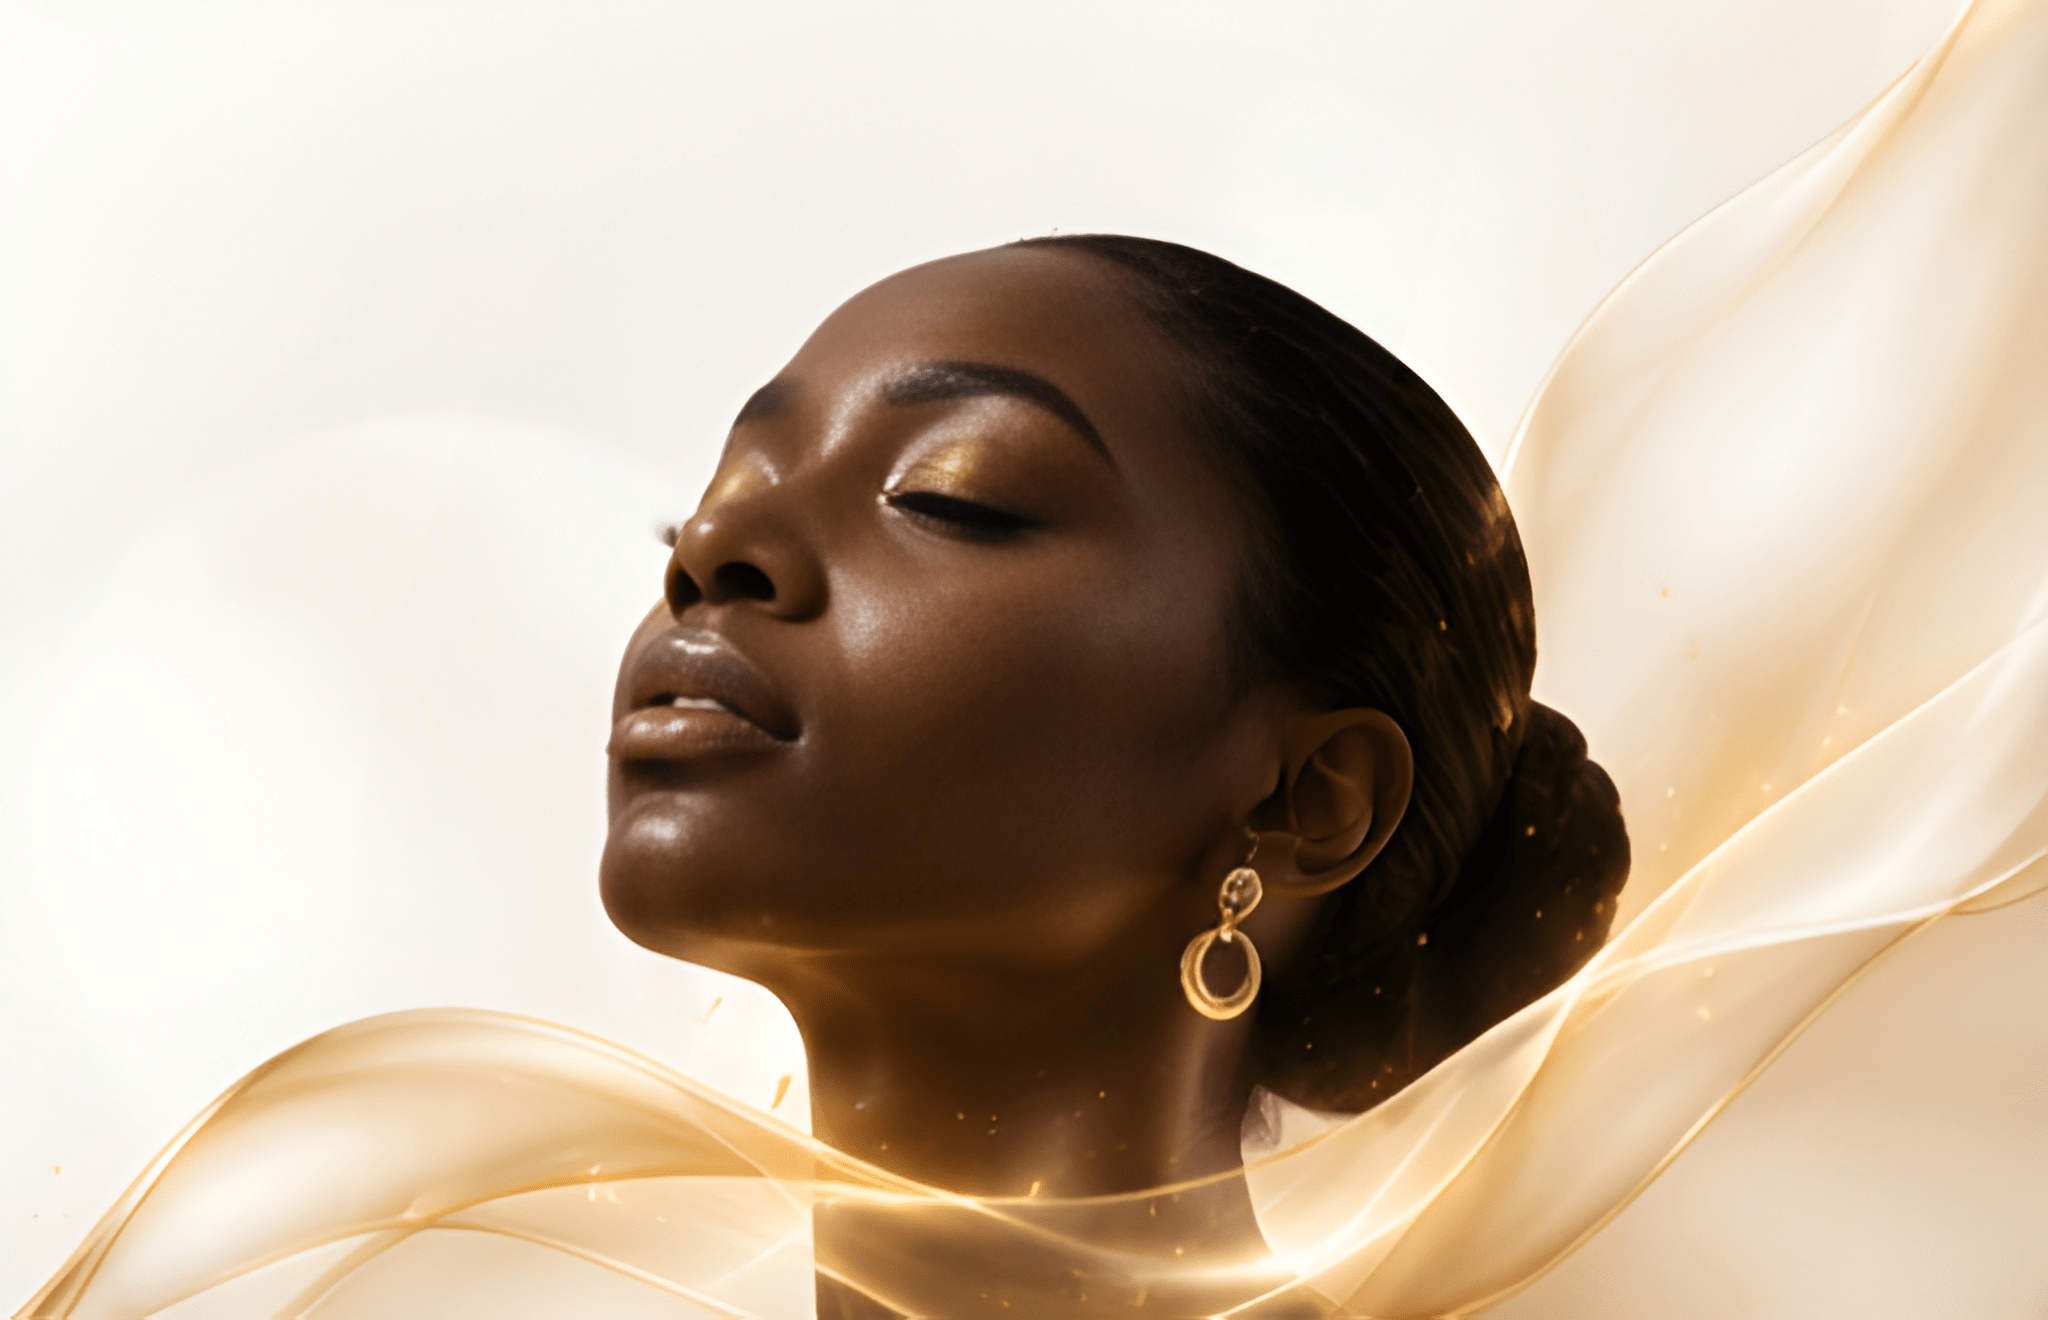
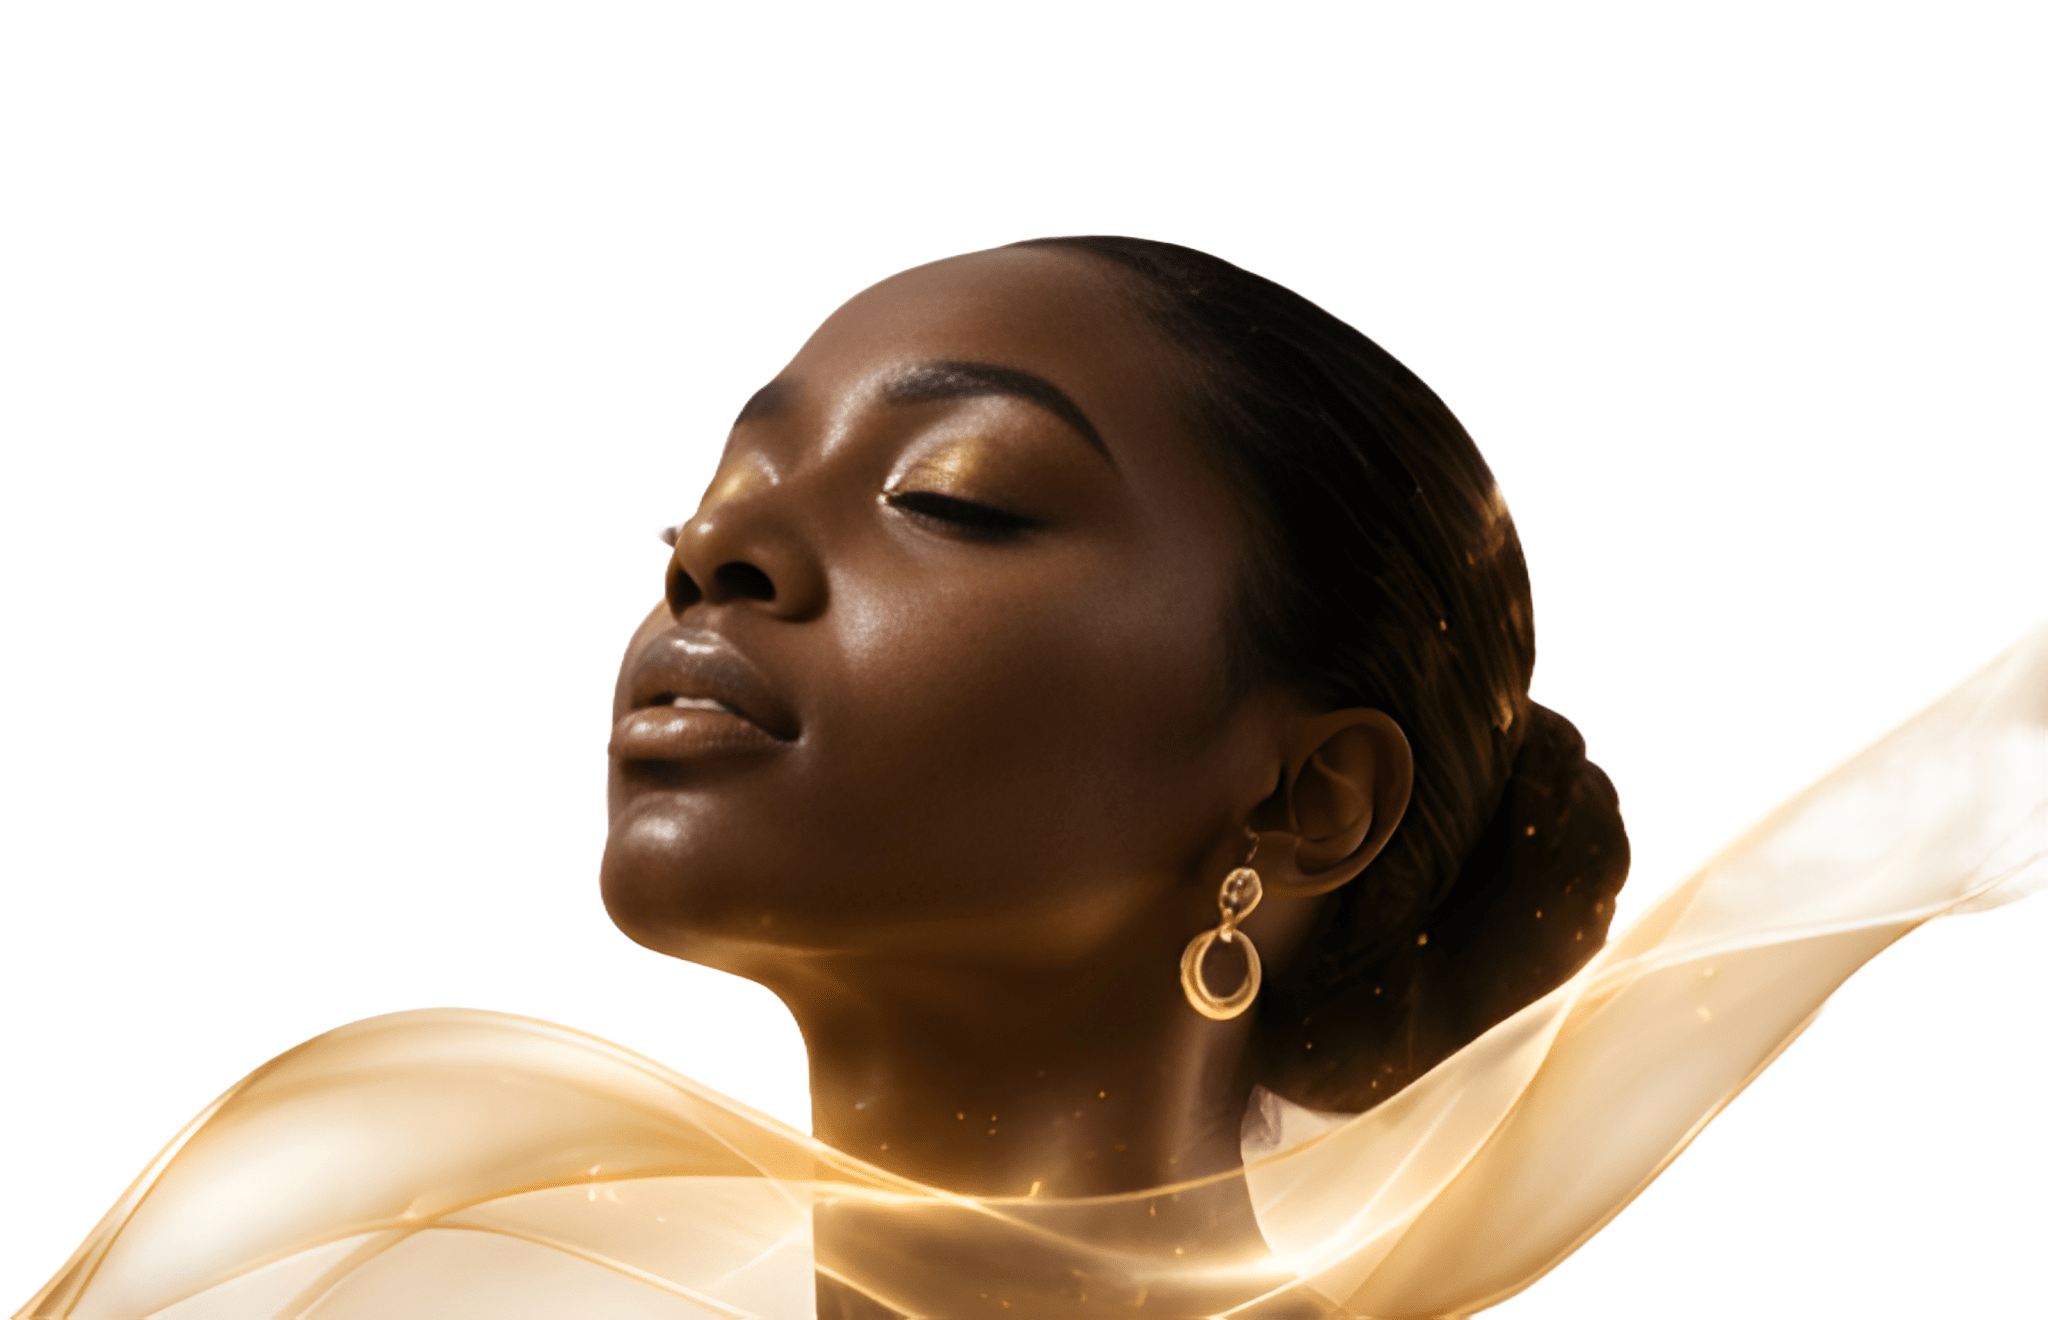
feat(prestation): add BeautyUnivers section and refine hero layout
- Import and render BeautyUnivers component on the prestation page.
- Refine PrestationHero: adjust height, image positioning, spacing, and typography to align with design specifications (portrait cut-off at neck level) and homogenize with Home Hero.

diff --git a/components/BeautyUnivers.tsx b/components/BeautyUnivers.tsx
@@ -1,0 +1,152 @@
+"use client";
+
+import { motion } from "framer-motion";
+import Image from "next/image";
+import Link from "next/link";
+import { Reveal } from "@/components/ui/Reveal";
+import { SectionHeading } from "@/components/ui/SectionHeading";
+
+const ease: [number, number, number, number] = [0.22, 1, 0.36, 1];
+
+const categories = [
+	{
+		title: "Soins\n du Visage",
+		subtitle: "4 soins experts",
+		image: "/assets/images/soin-visage.jpg",
+		href: "#soins-visage",
+		icon: (
+			<svg viewBox="0 0 24 24" fill="none" stroke="currentColor" strokeWidth={1.5} className="h-5 w-5">
+				<path strokeLinecap="round" strokeLinejoin="round" d="M15.182 15.182a4.5 4.5 0 01-6.364 0M21 12a9 9 0 11-18 0 9 9 0 0118 0zM9.75 9.75c0 .414-.168.75-.375.75S9 10.164 9 9.75 9.168 9 9.375 9s.375.336.375.75zm-.375 0h.008v.015h-.008V9.75zm5.625 0c0 .414-.168.75-.375.75s-.375-.336-.375-.75.168-.75.375-.75.375.336.375.75zm-.375 0h.008v.015h-.008V9.75z" />
+			</svg>
+		),
+	},
+	{
+		title: "Microneedling\n Expert",
+		subtitle: "1 protocole avancé",
+		image: "/assets/images/microneeding.jpg",
+		href: "#microneedling",
+		icon: (
+			<svg viewBox="0 0 24 24" fill="none" stroke="currentColor" strokeWidth={1.5} className="h-5 w-5">
+				<path strokeLinecap="round" strokeLinejoin="round" d="M9.75 3.104v5.714a2.25 2.25 0 01-.659 1.591L5 14.5M9.75 3.104c-.251.023-.501.05-.75.082m.75-.082a24.301 24.301 0 014.5 0m0 0v5.714c0 .597.237 1.17.659 1.591L19.8 15.3M14.25 3.104c.251.023.501.05.75.082M19.8 15.3l-1.57.393A9.065 9.065 0 0112 15a9.065 9.065 0 00-6.23.693L5 14.5m14.8.8l1.402 1.402c1.232 1.232.65 3.318-1.067 3.611A48.309 48.309 0 0112 21c-2.773 0-5.491-.235-8.135-.687-1.718-.293-2.3-2.379-1.067-3.61L5 14.5" />
+			</svg>
+		),
+	},
+	{
+		title: "Beauté\n du Regard",
+		subtitle: "5 prestations",
+		image: "/assets/images/beaute-au-regard.jpg",
+		href: "#beaute-regard",
+		icon: (
+			<svg viewBox="0 0 24 24" fill="none" stroke="currentColor" strokeWidth={1.5} className="h-5 w-5">
+				<path strokeLinecap="round" strokeLinejoin="round" d="M2.036 12.322a1.012 1.012 0 010-.639C3.423 7.51 7.36 4.5 12 4.5c4.638 0 8.573 3.007 9.963 7.178.07.207.07.431 0 .639C20.577 16.49 16.64 19.5 12 19.5c-4.638 0-8.573-3.007-9.963-7.178z" />
+				<path strokeLinecap="round" strokeLinejoin="round" d="M15 12a3 3 0 11-6 0 3 3 0 016 0z" />
+			</svg>
+		),
+	},
+	{
+		title: "Massages\n & Bien-Être",
+		subtitle: "3 rituels",
+		image: "/assets/images/massage.png",
+		href: "#massages",
+		icon: (
+			<svg viewBox="0 0 24 24" fill="none" stroke="currentColor" strokeWidth={1.5} className="h-5 w-5">
+				<path strokeLinecap="round" strokeLinejoin="round" d="M21 8.25c0-2.485-2.099-4.5-4.688-4.5-1.935 0-3.597 1.126-4.312 2.733-.715-1.607-2.377-2.733-4.313-2.733C5.1 3.75 3 5.765 3 8.25c0 7.22 9 12 9 12s9-4.78 9-12z" />
+			</svg>
+		),
+	},
+	{
+		title: "Épilation\n Experte",
+		subtitle: "2 techniques",
+		image: "/assets/images/soin-expert.jpg",
+		href: "#epilation",
+		icon: (
+			<svg viewBox="0 0 24 24" fill="none" stroke="currentColor" strokeWidth={1.5} className="h-5 w-5">
+				<path strokeLinecap="round" strokeLinejoin="round" d="M9.813 15.904L9 18.75l-.813-2.846a4.5 4.5 0 00-3.09-3.09L2.25 12l2.846-.813a4.5 4.5 0 003.09-3.09L9 5.25l.813 2.846a4.5 4.5 0 003.09 3.09L15.75 12l-2.846.813a4.5 4.5 0 00-3.09 3.09zM18.259 8.715L18 9.75l-.259-1.035a3.375 3.375 0 00-2.455-2.456L14.25 6l1.036-.259a3.375 3.375 0 002.455-2.456L18 2.25l.259 1.035a3.375 3.375 0 002.455 2.456L21.75 6l-1.036.259a3.375 3.375 0 00-2.455 2.456zM16.894 20.567L16.5 21.75l-.394-1.183a2.25 2.25 0 00-1.423-1.423L13.5 18.75l1.183-.394a2.25 2.25 0 001.423-1.423l.394-1.183.394 1.183a2.25 2.25 0 001.423 1.423l1.183.394-1.183.394a2.25 2.25 0 00-1.423 1.423z" />
+			</svg>
+		),
+	},
+	{
+		title: "Formations\n Professionnelles",
+		subtitle: "3 programmes",
+		image: "/assets/images/formation-soin.jpg",
+		href: "#formations",
+		icon: (
+			<svg viewBox="0 0 24 24" fill="none" stroke="currentColor" strokeWidth={1.5} className="h-5 w-5">
+				<path strokeLinecap="round" strokeLinejoin="round" d="M4.26 10.147a60.436 60.436 0 00-.491 6.347A48.627 48.627 0 0112 20.904a48.627 48.627 0 018.232-4.41 60.46 60.46 0 00-.491-6.347m-15.482 0a50.57 50.57 0 00-2.658-.813A59.905 59.905 0 0112 3.493a59.902 59.902 0 0110.399 5.84c-.896.248-1.783.52-2.658.814m-15.482 0A50.697 50.697 0 0112 13.489a50.702 50.702 0 017.74-3.342M6.75 15a.75.75 0 100-1.5.75.75 0 000 1.5zm0 0v-3.675A55.378 55.378 0 0112 8.443m-7.007 11.55A5.981 5.981 0 006.75 15.75v-1.5" />
+			</svg>
+		),
+	},
+];
+
+export function BeautyUnivers() {
+	return (
+		<section className="relative overflow-hidden bg-cream py-20 md:py-28">
+			{/* Soie dorée décorative */}
+			<div className="pointer-events-none absolute -left-20 top-0 h-full w-[40%] opacity-30">
+				<img
+					src="/assets/images/forme-left.png"
+					alt=""
+					aria-hidden
+					className="h-full w-full object-cover"
+				/>
+			</div>
+
+			<div className="container-luxe relative z-10">
+				{/* Heading */}
+				<SectionHeading
+					title="Découvrez nos"
+					highlight="univers de beauté"
+					description="Cliquez sur une catégorie pour explorer nos soins en détail."
+					align="center"
+				/>
+
+				{/* Grille de cartes */}
+				<div className="mt-14 grid grid-cols-1 gap-4 sm:grid-cols-2 lg:grid-cols-3 md:mt-16">
+					{categories.map((cat, i) => (
+						<Reveal key={cat.href} delay={i * 0.08}>
+							<Link href={cat.href} className="group relative block overflow-hidden rounded-2xl shadow-card transition-shadow hover:shadow-lift">
+								{/* Image */}
+								<div className="relative aspect-[4/5] overflow-hidden">
+									<Image
+										src={cat.image}
+										alt={cat.title.replace("\n", " ")}
+										fill
+										sizes="(min-width: 1024px) 33vw, (min-width: 640px) 50vw, 100vw"
+										className="object-cover transition-transform duration-700 ease-[cubic-bezier(0.22,1,0.36,1)] group-hover:scale-105"
+									/>
+									{/* Gradient overlay */}
+									<div className="absolute inset-0 bg-gradient-to-t from-black/70 via-black/20 to-transparent" />
+								</div>
+
+								{/* Contenu */}
+								<div className="absolute inset-0 flex flex-col justify-end p-5 sm:p-6">
+									{/* Icône dorée (haut gauche) */}
+									<div className="absolute top-4 left-4 flex h-10 w-10 items-center justify-center rounded-full bg-gold/90 text-royal shadow-md backdrop-blur-sm sm:h-11 sm:w-11">
+										{cat.icon}
+									</div>
+
+									{/* Titre */}
+									<h3 className="whitespace-pre-line font-display text-lg font-bold uppercase leading-tight tracking-wide text-white sm:text-xl">
+										{cat.title}
+									</h3>
+
+									{/* Sous-titre + flèche */}
+									<div className="mt-1.5 flex items-center justify-between">
+										<span className="text-xs text-white/80 sm:text-sm">
+											{cat.subtitle}
+										</span>
+										<span className="flex h-8 w-8 items-center justify-center rounded-full border border-gold/50 text-gold transition-all duration-300 group-hover:bg-gold group-hover:text-royal group-hover:shadow-gold sm:h-9 sm:w-9">
+											<svg className="h-4 w-4" fill="none" viewBox="0 0 24 24" stroke="currentColor" strokeWidth={2}>
+												<path strokeLinecap="round" strokeLinejoin="round" d="M13.5 4.5L21 12m0 0l-7.5 7.5M21 12H3" />
+											</svg>
+										</span>
+									</div>
+								</div>
+							</Link>
+						</Reveal>
+					))}
+				</div>
+			</div>
+		</section>
+	);
+}

diff --git a/components/PrestationHero.tsx b/components/PrestationHero.tsx
@@ -10,13 +10,13 @@ import { waLink } from "@/lib/site";
 import { cn } from "@/lib/utils";
 
 /**
- * PrestationHero — High-fidelity hero for the services page.
- * Faithfully reproduces the attached design using strategic assets:
- * hero-right-image.png, left-image-effect.png, and lotus-expertise.png.
+ * PrestationHero — Refined hero for the services page.
+ * Height is adjusted to align perfectly with the portrait cut-off at the neck level.
+ * Homogenized with Home Hero spacing and typography.
  */
 export function PrestationHero() {
 	return (
-		<section className="relative min-h-[600px] w-full overflow-hidden bg-ivory py-16 lg:h-[85vh] lg:min-h-[700px] lg:py-0">
+		<section className="relative min-h-[480px] w-full overflow-hidden bg-ivory py-16 lg:h-[65vh] lg:min-h-[500px] lg:py-0">
 			{/* ─── Layer 1: Global Silk Background ─── */}
 			<div className="absolute inset-0 z-0">
 				<Image
@@ -24,15 +24,15 @@ export function PrestationHero() {
 					alt=""
 					fill
 					priority
-					className="object-cover opacity-70"
+					className="object-cover opacity-60"
 					aria-hidden
 				/>
 			</div>
 
 			{/* ─── Layer 2: Main Portrait (Right) ─── */}
-			<div className="absolute inset-y-0 right-0 z-10 hidden w-full lg:block">
+			<div className="absolute inset-y-0 right-[-2%] z-10 hidden w-[45%] lg:block">
 				<motion.div
-					initial={{ opacity: 0, x: 50, scale: 1.05 }}
+					initial={{ opacity: 0, x: 50, scale: 0.95 }}
 					animate={{ opacity: 1, x: 0, scale: 1 }}
 					transition={{
 						duration: 1.2,
@@ -46,26 +46,26 @@ export function PrestationHero() {
 						alt="Portrait Cynthia Cosmétique"
 						fill
 						priority
-						className="object-contain object-right"
+						className="object-contain object-right object-bottom"
 					/>
 				</motion.div>
 			</div>
 
 			{/* ─── Layer 3: Content (Left) ─── */}
 			<div className="container-luxe relative z-20 flex h-full flex-col justify-center">
-				<div className="max-w-2xl lg:max-w-2xl xl:max-w-3xl">
+				<div className="flex max-w-2xl flex-col gap-3 md:gap-5 lg:max-w-xl xl:max-w-2xl">
 					{/* Eyebrow */}
 					<Reveal direction="down" delay={0.2}>
-						<div className="mb-8 flex items-center gap-4">
-							<span className="eyebrow !text-[11px] !tracking-[0.25em] text-gold-deep/80 sm:!text-[12px]">
+						<div className="flex items-center gap-3">
+							<span className="eyebrow !text-[10px] !tracking-[0.2em] text-gold-deep/80 sm:!text-[11px]">
 								L&apos;expertise au service de votre beauté
 							</span>
-							<div className="relative h-8 w-8 sm:h-10 sm:w-10">
+							<div className="relative h-6 w-6 sm:h-8 sm:w-8">
 								<Image
 									src="/assets/images/lotus-expertise.png"
 									alt="Lotus"
 									fill
-									sizes="40px"
+									sizes="32px"
 									className="object-contain"
 									aria-hidden
 								/>
@@ -75,24 +75,24 @@ export function PrestationHero() {
 
 					{/* Title */}
 					<Reveal delay={0.3}>
-						<h1 className="flex flex-col gap-2 font-display text-5xl font-bold leading-[1.05] text-royal sm:text-6xl md:flex-row md:items-baseline md:gap-4 lg:text-[5.5rem] xl:text-[6.5rem]">
-							<span>Nos</span>
+						<h1 className="font-display text-2xl font-bold leading-[1.08] tracking-tight text-royal sm:text-3xl md:text-5xl lg:text-6xl xl:text-[4rem]">
+							<span>Nos</span>{" "}
 							<span className="text-gradient-gold font-normal italic">
 								Prestations
 							</span>
 						</h1>
 					</Reveal>
 
-					{/* Decorative Line */}
+					{/* Small decorative line */}
 					<Reveal delay={0.4} direction="none">
-						<div className="mt-6 h-[1.5px] w-12 bg-royal/15 sm:w-16">
-							<div className="h-full w-2/5 bg-gold-deep" />
+						<div className="h-0.5 w-16 bg-royal/10 sm:w-20">
+							<div className="h-full w-1/3 bg-gold-deep" />
 						</div>
 					</Reveal>
 
 					{/* Description */}
 					<Reveal delay={0.5}>
-						<p className="mt-8 max-w-lg text-base leading-relaxed text-slate-ink/85 sm:text-lg md:text-xl">
+						<p className="max-w-md text-xs leading-relaxed text-slate-ink/80 sm:text-sm md:text-base lg:text-lg">
 							Des soins sur-mesure, des techniques de pointe et une approche
 							personnalisée pour révéler la beauté naturelle de votre peau.
 						</p>
@@ -100,7 +100,7 @@ export function PrestationHero() {
 
 					{/* Buttons */}
 					<Reveal delay={0.6} direction="up">
-						<div className="mt-10 flex flex-wrap items-center gap-5">
+						<div className="mt-2 flex flex-wrap items-center gap-3 sm:gap-4">
 							<Button
 								href={waLink("Bonjour, je souhaite réserver un soin.")}
 								external
@@ -145,7 +145,7 @@ export function PrestationHero() {
 						src="/assets/images/hero-right-image.png"
 						alt=""
 						fill
-						className="object-cover object-top opacity-30"
+						className="object-cover object-top opacity-25"
 						aria-hidden
 					/>
 					<div className="absolute inset-0 bg-gradient-to-b from-ivory/80 via-ivory/40 to-ivory" />

diff --git a/app/prestation/page.tsx b/app/prestation/page.tsx
@@ -2,6 +2,7 @@ import type { Metadata } from "next";
 import { Footer } from "@/components/Footer";
 import { Navbar } from "@/components/Navbar";
 import { PrestationHero } from "@/components/PrestationHero";
+import { BeautyUnivers } from "@/components/BeautyUnivers";
 
 export const metadata: Metadata = {
 	title: "Prestations",
@@ -21,6 +22,7 @@ export default function PrestationPage() {
 			<Navbar />
 			<main className="flex flex-1 flex-col">
 				<PrestationHero />
+				<BeautyUnivers />
 			</main>
 			<Footer />
 		</>